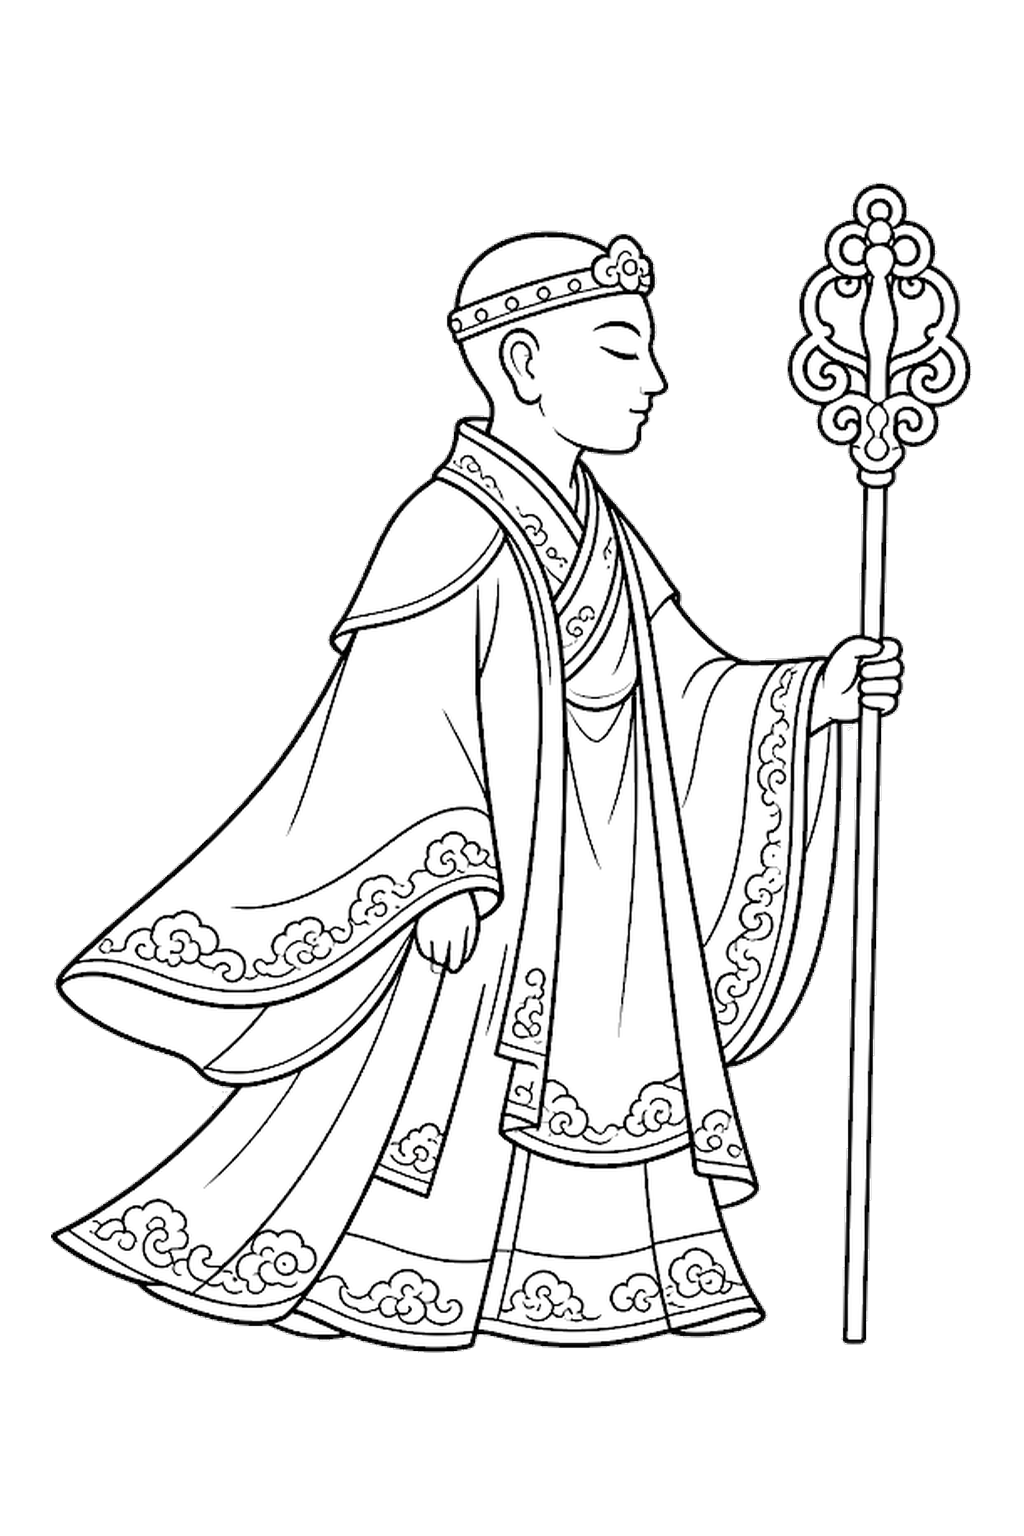
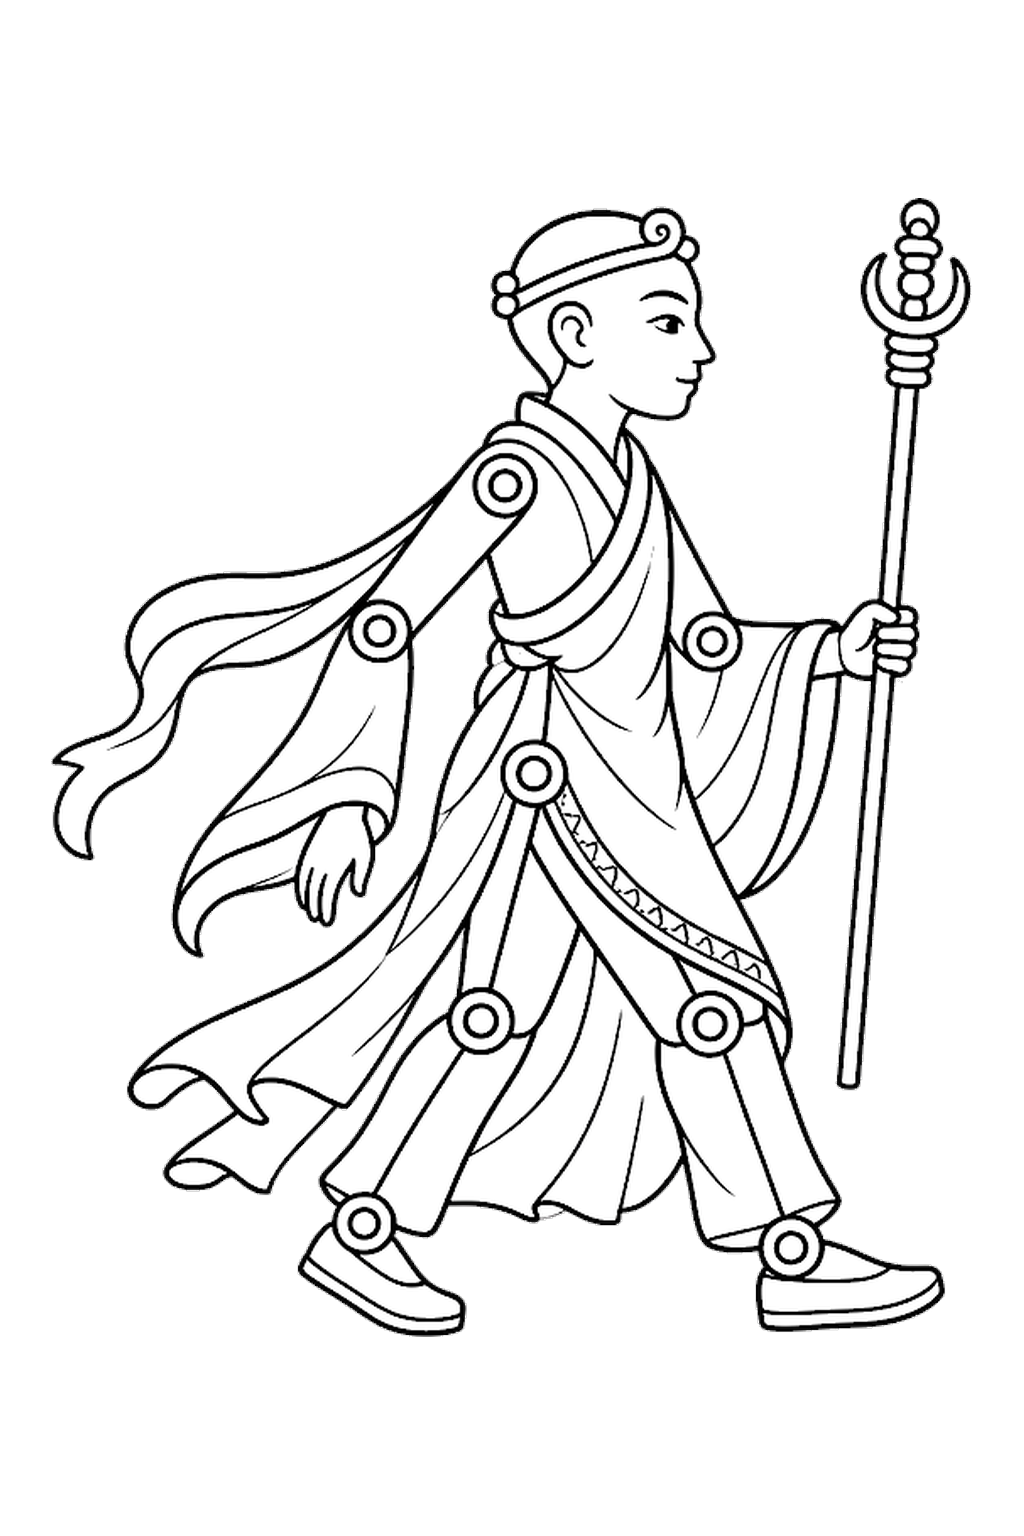
feat: drop 白馬; 唐僧／八戒／沙僧改為同悟空關節皮影
- remove baima-v1 from registry
- set tangseng/bajie/sha to articulated (reuse Wukong joint layout, drop tail/staff as needed)
- refresh side-profile line art templates
- P2A seats: four humanoids

Changed region(s): [[0.0312, 0.0938, 0.9688, 0.9062]]

diff --git a/src/characters.js b/src/characters.js
@@ -1,6 +1,5 @@
 /**
- * P1 multi-character registry (MULTI-CHAR-P1.md).
- * Students pick a character; paint/photo writes [characterId,'whole'].
+ * Classroom characters: 悟空／唐僧／八戒／沙僧（同悟空側身關節皮影做法）
  */
 export const CHAR_REGISTRY = [
   {
@@ -19,52 +18,39 @@ export const CHAR_REGISTRY = [
   {
     id: 'tangseng-v1',
     labelZh: '唐僧',
-    assetVersion: 'tangseng-profile-v1d',
+    assetVersion: 'tangseng-profile-v1e',
     templateUrl: './characters/tangseng-v1/template.png',
     lineArtUrl: './print/tangseng-v1-profile-line-a4.svg',
     printUrl: './print/tangseng-v1-profile-line-a4.svg',
     rodPreset: 'humanoid',
     kind: 'biped',
-    rigMode: 'whole', // P1a: whole silhouette + body rod; P1b articulated
+    rigMode: 'articulated',
     width: 1024,
     height: 1536,
   },
   {
     id: 'bajie-v1',
     labelZh: '豬八戒',
-    assetVersion: 'bajie-profile-v1d',
+    assetVersion: 'bajie-profile-v1e',
     templateUrl: './characters/bajie-v1/template.png',
     lineArtUrl: './print/bajie-v1-profile-line-a4.svg',
     printUrl: './print/bajie-v1-profile-line-a4.svg',
     rodPreset: 'humanoid',
     kind: 'biped',
-    rigMode: 'whole',
+    rigMode: 'articulated',
     width: 1024,
     height: 1536,
   },
   {
     id: 'sha-v1',
     labelZh: '沙僧',
-    assetVersion: 'sha-profile-v1d',
+    assetVersion: 'sha-profile-v1e',
     templateUrl: './characters/sha-v1/template.png',
     lineArtUrl: './print/sha-v1-profile-line-a4.svg',
     printUrl: './print/sha-v1-profile-line-a4.svg',
     rodPreset: 'humanoid',
     kind: 'biped',
-    rigMode: 'whole',
-    width: 1024,
-    height: 1536,
-  },
-  {
-    id: 'baima-v1',
-    labelZh: '白馬',
-    assetVersion: 'baima-profile-v1d',
-    templateUrl: './characters/baima-v1/template.png',
-    lineArtUrl: './print/baima-v1-profile-line-a4.svg',
-    printUrl: './print/baima-v1-profile-line-a4.svg',
-    rodPreset: 'horse',
-    kind: 'horse',
-    rigMode: 'whole', // P1a body rod; P1b head/neck
+    rigMode: 'articulated',
     width: 1024,
     height: 1536,
   },

diff --git a/index.html b/index.html
@@ -15,7 +15,7 @@
       <p class="eyebrow">西遊記・課堂一條龍</p>
       <h2>同一頁走完三步</h2>
       <p class="intro">填色／影相 → 單機舞台練棍 → 多人 live 同台。作品保存在呢部 iPad，唔使登入。</p>
-      <p class="preview-note">若仍見舊版，請硬刷新或開 <a href="./index.html?v=landing2">帶版本參數嘅首頁</a>。</p>
+      <p class="preview-note">若仍見舊版，請硬刷新或開 <a href="./index.html?v=nobaima1">帶版本參數嘅首頁</a>。</p>
 
       <ol class="flow-steps" aria-label="課堂流程">
         <li class="flow-step" data-step="1">
@@ -45,7 +45,7 @@
       <div class="char-grid" id="charGrid" role="listbox" aria-labelledby="charPickLabel"></div>
 
       <div class="pipeline-cards" id="pipelineCards">
-        <a class="pipe-card" id="goColor" href="./color.html?v=c742">
+        <a class="pipe-card" id="goColor" href="./color.html?v=nobaima1">
           <span class="pipe-step">①</span>
           <strong>填色／影相</strong>
           <span id="colorHint">畫或影相入偶</span>
@@ -66,11 +66,11 @@
       </div>
 
       <div class="home-cards home-secondary">
-        <a id="start" class="btn primary-done" href="./color.html?v=c742">
+        <a id="start" class="btn primary-done" href="./color.html?v=nobaima1">
           <span class="card-icon">✎</span><strong>① 開始填色</strong>
           <span id="startHint">揀角色後撳呢度入場</span>
         </a>
-        <a id="continue" href="./color.html?v=c742" hidden>
+        <a id="continue" href="./color.html?v=nobaima1" hidden>
           <span class="card-icon">▷</span><strong>繼續本機作品</strong>
           <span id="continueHint">接住呢部裝置嘅創作</span>
         </a>

diff --git a/src/profileRig.js b/src/profileRig.js
@@ -98,9 +98,18 @@ function localPoint(point, pivot, angle) {
   return [dx * Math.cos(angle) + dy * Math.sin(angle), -dx * Math.sin(angle) + dy * Math.cos(angle)];
 }
 
+function regionsForCharacter(ch) {
+  const id = ch?.id || 'wukong-v2';
+  // Same side-view joint layout as Wukong (1024×1536). Drop monkey-only / unmatched props.
+  if (id === 'wukong-v2') return wukongRegions;
+  if (id === 'tangseng-v1') return wukongRegions.filter((r) => r.id !== 'tail' && r.id !== 'staff');
+  if (id === 'bajie-v1' || id === 'sha-v1') return wukongRegions.filter((r) => r.id !== 'tail');
+  return wukongRegions.filter((r) => r.id !== 'tail' && r.id !== 'staff');
+}
+
 export function buildProfileRig(source, characterMeta = null) {
   const ch = characterMeta || getCharacter('wukong-v2');
-  const regions = wukongRegions;
+  const regions = regionsForCharacter(ch);
   const designW = 1024;
   const ratio = source.width / designW;
   const w = source.width;

diff --git a/tests/core.test.js b/tests/core.test.js
@@ -332,9 +332,9 @@ import {
 
 test("character registry has five profile roles with required fields", () => {
   const list = listCharacters();
-  assert.equal(list.length, 5);
+  assert.equal(list.length, 4);
   assert.equal(defaultCharacter().id, "wukong-v2");
-  for (const id of ["wukong-v2", "tangseng-v1", "bajie-v1", "sha-v1", "baima-v1"]) {
+  for (const id of ["wukong-v2", "tangseng-v1", "bajie-v1", "sha-v1"]) {
     const ch = getCharacter(id);
     assert.ok(ch, id);
     assert.ok(ch.labelZh);
@@ -347,7 +347,6 @@ test("character registry has five profile roles with required fields", () => {
     assert.equal(getCharacterByAssetVersion(ch.assetVersion)?.id, id);
     assert.equal(isProfileAssetVersion(ch.assetVersion), true);
   }
-  assert.equal(getCharacter("baima-v1").rodPreset, "horse");
   assert.equal(isProfileAssetVersion("nope"), false);
 });
 

diff --git a/src/live/room.js b/src/live/room.js
@@ -6,7 +6,7 @@ import { ref, set, get, update, onValue, runTransaction } from 'firebase/databas
 import { getLiveDatabase, ensureAnonAuth } from './firebaseApp.js';
 import { getCharacter, listCharacters } from '../characters.js';
 
-export const P2A_SEAT_IDS = ['wukong-v2', 'tangseng-v1'];
+export const P2A_SEAT_IDS = ['wukong-v2', 'tangseng-v1', 'bajie-v1', 'sha-v1'];
 export const MAX_SEATS_P2A = 2;
 export const POSE_HZ = 15;
 /** JPEG art for RTDB: keep under ~100KB typical (RTDB soft limit ~10MB/write). */

diff --git a/src/home.js b/src/home.js
@@ -30,7 +30,7 @@ function syncPipelineLinks(ch) {
   const print = document.getElementById('goPrint');
   const hint = document.getElementById('colorHint');
   const startHint = document.getElementById('startHint');
-  const q = `?char=${encodeURIComponent(id)}&v=c742`;
+  const q = `?char=${encodeURIComponent(id)}&v=nobaima1`;
   if (color) color.href = `./color.html${q}`;
   if (print) print.href = `./print.html${q}`;
   if (hint) hint.textContent = `畫／影相入${label}`;
